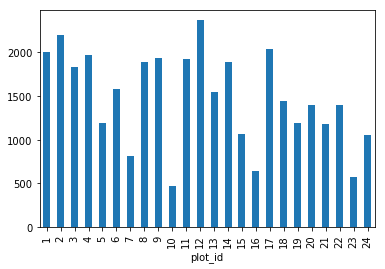
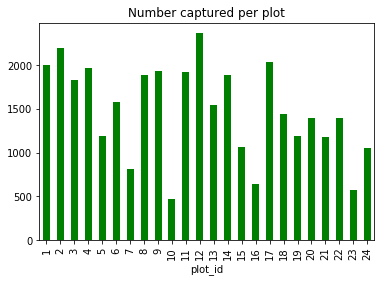
update first pandas ep

Changed region(s): [[0.0, 0.0297, 0.9688, 0.9814]]

diff --git a/_episodes/03-starting-with-data.md b/_episodes/03-starting-with-data.md
@@ -34,22 +34,26 @@ and they can replicate the same analysis.
 
 To help the lesson run smoothly, let's ensure everyone is in the same directory.
 This should help us avoid path and file name issues. At this time please
-navigate to the `python-bcb546` directory on your computer. If you working in Jupyter Notebook be sure
-that you start your notebook in the `python-bcb546` directory. If you do not have this directory, please see the instructions in the [Setup](../setup/) page.
+navigate to the directory containing the [course repository](https://github.com/EEOB-BioData/BCB546X-Fall2018) on your computer. 
+Before starting, be sure to **pull** the most recent changes from the repository using `git pull origin master`.
+If you're working in Jupyter Notebook be sure
+that you start your notebook in the `course-files/python` directory. If you do not have this directory, please see the instructions in the [Setup](../setup/) page.
 
 You will want to use a Jupyter notebook or the Spyder IDE console to run this lesson. Both of these tools make it easy to view in-line plots.
 
 To start a new Python session in a Jupyter notebook:
 
 ```
-$ cd python-bcb546
+$ cd course-files/python
 $ jupyter notebook
 ```
 
-Then select **_New->Python 3_**. Name this session `03-starting-wtih-data`.
+This typically brings up your default web browser and opens the Jupyter home screen.
+Select **_New->Python 3_**. Name this session `03-starting-wtih-data`.
 
+Note that you can also start a Jupyter notebook from the Anaconda Navigator launch screen. This will likely open the notebook in your home directory and you can then navigate through your file system to get to the `course-files/python` directory.
 
-Alternatively, you can start a Spyder instance and navigate to the `python-bcb546` directory from the console using Unix commands. 
+Alternatively, you can start a Spyder instance and navigate to the `course-files/python` directory from the console using Unix commands. 
 
 
 
@@ -61,8 +65,8 @@ from the ecological study by Ernst et al. (2009):
 Specifically, we will be using files from the [Portal Project Teaching Database](https://figshare.com/articles/Portal_Project_Teaching_Database/1314459).
 
 * This section will use the `surveys.csv` file that can be downloaded from the 
-[`python-bcb546`](https://github.com/EEOB-BioData/BCB546X-Fall2017/tree/master/python-bcb546) folder of the course repository.
-Pull from the course repository and change to to `python-bcb546` or copy the `surveys.csv` file to the directory from which you would like to work.
+[`course-files/python`](https://github.com/EEOB-BioData/BCB546X-Fall2018/tree/master/course-files/python) folder of the course repository.
+Pull from the course repository and change to to `course-files/python` or copy the `surveys.csv` file to the directory from which you would like to work.
 
 In this lesson, we are studying the species and weight of (_vertebrate_) animals captured in plots in our study
 area. The observed data are stored as a `.csv` file (comma-separated value): each row holds information for a
@@ -342,7 +346,7 @@ array(['NL', 'DM', 'PF', 'PE', 'DS', 'PP', 'SH', 'OT', 'DO', 'OX', 'SS',
 > 
 > 2. What is a much simpler approach to this?
 >
-> > ## Solution
+<!-- > > ## Solution
 > > 
 > > ~~~
 > > # 1
@@ -353,7 +357,7 @@ array(['NL', 'DM', 'PF', 'PE', 'DS', 'PP', 'SH', 'OT', 'DO', 'OX', 'SS',
 > > print(surveys_df['plot_id'].nunique())
 > > ~~~
 > > {: .python}
-> {: .solution}
+> {: .solution} -->
 {: .challenge}
 
 
@@ -543,13 +547,13 @@ summaries of categorical data.
 > Using the `.describe()` method on the DataFrame sorted by sex, 
 > determine how many individuals were observed for each.
 >
-> > ## Solution
+<!-- > > ## Solution
 > > 
 > > * *Female* = 15690
 > > 
 > > * *Male* = 17348
 > > 
-> {: .solution}
+> {: .solution} -->
 {: .challenge}
 
 
@@ -560,14 +564,14 @@ summaries of categorical data.
 > then grab mean values:
 > - Hint: you can use a list in the arguments of the `.groupby()` method, `['plot_id','sex']`
 > 
-> > ## Solution
+<!-- > > ## Solution
 > > 
 > > ~~~
 > > sorted_data2 = surveys_df.groupby(['plot_id','sex'])
 > > sorted_data2.mean()
 > > ~~~
 > > {: .python}
-> {: .solution}
+> {: .solution} -->
 {: .challenge}
 
 
@@ -575,14 +579,14 @@ summaries of categorical data.
 >
 > Summarize weight values for each plot in your data.
 > 
-> > ## Solution
+<!-- > > ## Solution
 > > 
 > > ~~~
 > > by_plot = surveys_df.groupby('plot_id')
 > > by_plot['weight'].describe()
 > > ~~~
 > > {: .python}
-> {: .solution}
+> {: .solution} -->
 {: .challenge}
 
 
@@ -671,12 +675,12 @@ We can plot our summary stats using Pandas, too. First, we must ensure that the 
 Now, we can make a quick bar chart of the species counts
 
 ~~~
-species_counts.plot(kind='bar')
+species_counts.plot(kind='bar',title='Number of individuals per species')
 ~~~
 {: .python}
 
 ![Weight by Species Plot](../fig/species-counts-bar.png)
-Number of individuals per species
+
 
 We can also look at how many animals were captured in each plot:
 
@@ -685,47 +689,47 @@ total_count = surveys_df.groupby('plot_id')['record_id'].nunique()
 ~~~
 {: .python}
 
-And plot a bar chart describing
+And plot a bar chart describing the number of individuals captured at each plot. Also, let's make it so that all of the bars are colored green.
 
 ~~~
-total_count.plot(kind='bar')
+total_count.plot(kind='bar',title='Number captured per plot', color='green')
 ~~~
 {: .python}
 
 ![Number Captured Plot](../fig/num-captured.png)
-Number captured per plot
 
 
 > ## Plot the average weight across all species in each plot
 >
-> Create a bar plot that shows the average weight of all of the animals captured in that plot
+> Create a bar plot that shows the average weight of all of the animals captured in that plot.
+> Also, choose an interesting or pleasing color from the list of [named web colors](https://en.wikipedia.org/wiki/Web_colors).
 > 
-> > ## Solution
+<!-- > > ## Solution
 > > 
 > > ~~~
 > > plot_weight_means = surveys_df.groupby('plot_id')['weight'].mean()
-> > plot_weight_means.plot(kind='bar')
+> > plot_weight_means.plot(kind='bar',title='Average Weight',color='LightSeaGreen')
 > > ~~~
 > > {: .python}
 > > 
 > > ![Solution](../fig/plot_ave_weight.png)
-> {: .solution}
+> {: .solution} -->
 {: .challenge}
 
 > ## Plot the number of females and the number of males in the dataset
 >
 > Create a bar plot that shows the total number of each sex captured for the entire dataset.
 > 
-> > ## Solution
+<!-- > > ## Solution
 > > 
 > > ~~~
 > > counts_by_sex = surveys_df['record_id'].groupby(surveys_df['sex']).count()
-> > counts_by_sex.plot(kind='bar')
+> > counts_by_sex.plot(kind='bar',title='Number captured for each sex')
 > > ~~~
 > > {: .python}
 > > 
 > > ![Solution](../fig/counts_by_sex.png)
-> {: .solution}
+> {: .solution} -->
 {: .challenge}
 
 
